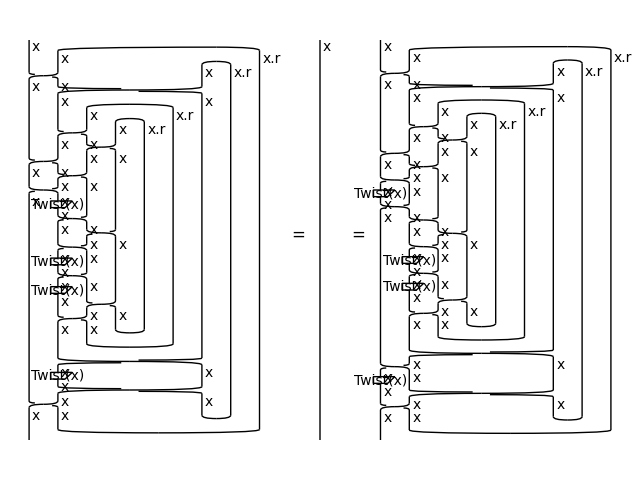
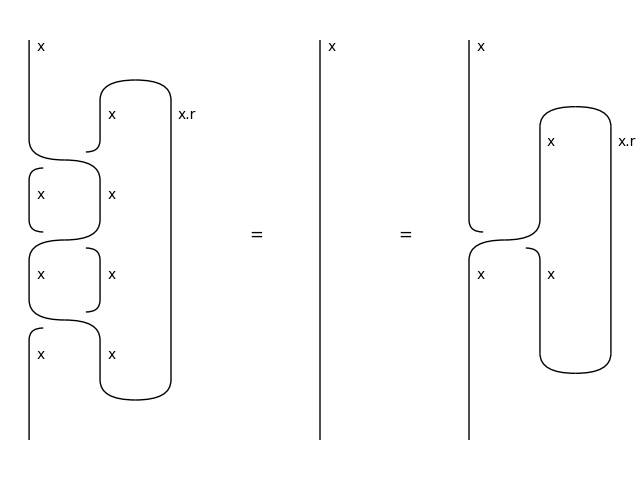
int-construction WIP

diff --git a/discopy/int.py b/discopy/int.py
@@ -13,20 +13,50 @@ Summary
 
     Ty
     Diagram
+
+.. admonition:: Functions
+
+    .. autosummary::
+        :template: function.rst
+        :nosignatures:
+        :toctree:
+
+        NamedGeneric
+
+Example
+-------
+
+>>> from discopy.grammar import pregroup
+>>> from discopy.grammar.pregroup import Word, Cup
+>>> s, n = map(pregroup.Ty, "sn")
+>>> Alice, loves, Bob\\
+...     = Word('Alice', n), Word('loves', n.r @ s @ n.l), Word('Bob', n)
+>>> sentence = Alice @ loves @ Bob >> Cup(n, n.r) @ s @ Cup(n.l, n)
+
+>>> from discopy.rigid import Functor
+>>> from discopy.ribbon import Ty as T, Diagram as D, Box, Category
+>>> N = T('N')
+>>> F = Functor(
+...     ob={s: Ty(), n: Ty(N, N)},
+    ...     ar={Alice: Box('A', N, N),
+...         loves: Box('L', N @ N, N @ N),
+...         Bob: Box('B', N, N)},
+...     cod=Int(Category(T, D)))
+>>> F(sentence).draw()
 """
 
 from __future__ import annotations
 from dataclasses import dataclass
 
-from discopy import traced, rigid, pivotal, ribbon
+from discopy import balanced, traced, rigid, pivotal, ribbon
 from discopy.cat import Composable, assert_iscomposable
-from discopy.monoidal import Whiskerable
+from discopy.monoidal import Whiskerable, Category
 from discopy.rigid import assert_isadjoint
 from discopy.utils import NamedGeneric, mmap, assert_isinstance
 
 
 @dataclass
-class Ty(NamedGeneric('natural')):
+class Ty(NamedGeneric['natural']):
     """
     An integer type is a pair of ``natural`` types,
     by default :class:`ribbon.Ty`.
@@ -67,7 +97,7 @@ class Ty(NamedGeneric('natural')):
         negative = sum([x.negative for x in reversed((self, ) + others)], unit)
         return type(self)(positive, negative)
 
-    __matmul__ = tensor
+    __matmul__ = __add__ = tensor
 
     def __neg__(self):
         positive, negative = self
@@ -77,7 +107,7 @@ class Ty(NamedGeneric('natural')):
 
 
 @dataclass
-class Diagram(Composable[Ty], Whiskerable, NamedGeneric('natural')):
+class Diagram(Composable[Ty], Whiskerable, NamedGeneric['natural']):
     """
     An integer diagram from ``x`` to ``y`` is a ``natural`` diagram
     from ``x.positive @ y.negative`` to ``x.negative @ y.positive``.
@@ -89,9 +119,9 @@ class Diagram(Composable[Ty], Whiskerable, NamedGeneric('natural')):
 
     Note
     ----
-    We take ``natural = ribbon.Diagram`` but this can be any class with the
-    methods for a balanced traced category. For example, the category of
-    boolean matrices with the direct sum has a trace given by reflexive
+    By default we take ``natural = ribbon.Diagram`` but this can be any class
+    with the methods for a balanced traced category. For example, the category
+    of boolean matrices with the direct sum has a trace given by reflexive
     transitive closure. We can use it to check the snake equations:
 
     >>> from discopy.matrix import Matrix
@@ -117,7 +147,13 @@ class Diagram(Composable[Ty], Whiskerable, NamedGeneric('natural')):
     @mmap
     def then(self, other: Diagram):
         """
-        The composition of two integer diagrams is given by:
+        The composition of two integer diagrams.
+
+        Parameters:
+            other : The other diagram with which to compose.
+
+        Example
+        -------
 
         >>> from discopy.ribbon import Ty as T, Diagram as D, Box as B
         >>> u, v, w, x, y, z = map(Ty[T], "uvwxyz")
@@ -139,14 +175,20 @@ class Diagram(Composable[Ty], Whiskerable, NamedGeneric('natural')):
             >> self.inside @ w
             >> y @ braid(w, u).dagger()
             >> other.inside @ u
-            >> z @ braid(v, u)).trace(v if isinstance(v, int) else len(v))
+            >> z @ braid(v, u)).trace(
+                n=v if isinstance(v, int) else len(v), left=False)
         return type(self)(inside, dom, cod)
 
     @classmethod
-    def id(cls, dom: Ty) -> Diagram:
+    def id(cls, dom: Ty = None) -> Diagram:
         """
-        The identity on an integer type is the identity on its positive half
-        tensored with a twist on its negative half. For example:
+        The identity on an integer type.
+
+        Parameters:
+            dom : The integer type on which to take the identity.
+
+        Example
+        -------
 
         >>> from discopy.ribbon import Ty as T, Diagram as D, Box as B
         >>> x, y, u, v = map(Ty[T], "xyuv")
@@ -161,6 +203,7 @@ class Diagram(Composable[Ty], Whiskerable, NamedGeneric('natural')):
         .. image:: /_static/int/idr.png
             :align: center
         """
+        dom = Ty[cls.natural.ty_factory]() if dom is None else dom
         positive, negative = dom
         inside = cls.natural.id(positive) @ cls.natural.twist(negative)
         return cls(inside, dom, dom)
@@ -168,7 +211,13 @@ class Diagram(Composable[Ty], Whiskerable, NamedGeneric('natural')):
     @mmap
     def tensor(self, other):
         """
-        The tensor of two integer diagrams is given by:
+        The tensor of two integer diagrams.
+
+        Parameters:
+            other : The other diagram to tensor.
+
+        Example
+        -------
 
         >>> from discopy.ribbon import Ty as T, Diagram as D, Box as B
         >>> x, y, u, v = map(Ty[T], "xyuv")
@@ -197,13 +246,21 @@ class Diagram(Composable[Ty], Whiskerable, NamedGeneric('natural')):
         """
         The integer cups are given by natural identities.
 
+        Parameters:
+            left : The left-hand side of the cups.
+            right : The right-hand side of the cups.
+
+        Example
+        -------
+
         This is what the snake equations look like:
 
         >>> from discopy.drawing import Equation
+        >>> x = Ty('x')
         >>> Equation(
-        ...     Diagram.id(Ty('x')).transpose(),
-        ...     Diagram.id(Ty('x')),
-        ...     Diagram.id(Ty('x')).transpose(left=True)).draw(
+        ...     Diagram.caps(x, -x) @ x >> x @ Diagram.cups(-x, x),
+        ...     Diagram.id(x),
+        ...     x @ Diagram.caps(-x, x) >> Diagram.cups(x, -x) @ x).draw(
         ...         path="docs/_static/int/int-snake-equations.png")
 
         .. image:: /_static/int/int-snake-equations.png
@@ -217,12 +274,19 @@ class Diagram(Composable[Ty], Whiskerable, NamedGeneric('natural')):
     def caps(cls, left: Ty, right: Ty) -> Diagram:
         """
         The integer caps are given by natural identities.
+
+        Parameters:
+            left : The left-hand side of the caps.
+            right : The right-hand side of the caps.
         """
         assert_isadjoint(left, right)
         inside = cls.natural.id(left.negative + left.positive)
         return cls(inside, type(left)(), left @ right)
 
     def dagger(self):
+        """
+        The dagger of an integer diagram is given by the dagger of its inside.
+        """
         return type(self)(self.inside.dagger(), self.cod, self.dom)
 
     def __getitem__(self, key):
@@ -239,3 +303,13 @@ class Diagram(Composable[Ty], Whiskerable, NamedGeneric('natural')):
     transpose = rigid.Diagram.transpose
     boxes = property(lambda self: self.inside.boxes)
     to_drawing = lambda self: self.inside.to_drawing()
+
+
+def Int(category: Category) -> Category:
+    """
+    The Int construction turns traced categories into ribbon categories.
+    """
+    return Category(Ty[category.ob], Diagram[category.ar])
+
+
+Id = Diagram.id

diff --git a/discopy/utils.py b/discopy/utils.py
@@ -90,27 +90,56 @@ class MappingOrCallable(Mapping[KT, VT]):
         return MappingOrCallable(lambda key: other[self[key]])
 
 
-def NamedGeneric(attr):
-    T = TypeVar('T')
+class NamedGeneric(Generic[TypeVar('T')]):
+    """
+    A ``NamedGeneric`` is a ``Generic`` where the type parameter has a name.
 
-    class Result(Generic[T]):
-        def __class_getitem__(cls, dtype: type, _cache=dict()):
-            cls_attr = getattr(cls, attr, None)
-            if cls_attr not in _cache or _cache[cls_attr] != cls:
-                _cache.clear()
-                _cache[cls_attr] = cls
-            if dtype not in _cache:
-                origin = getattr(cls, "__origin__", cls)
-                class C(origin):
-                    pass
+    Parameters:
+        attr : The name of the type parameter.
 
-                C.__name__ = C.__qualname__ = \
-                    f"{origin.__name__}[{dtype.__name__}]"
-                C.__origin__ = cls
-                setattr(C, attr, dtype)
-                _cache[dtype] = C
-            return _cache[dtype]
-    return Result
+    Note
+    ----
+    In a standard ``Generic`` class, the type parameter disappears when the
+    member of the class is instantiated, e.g.
+
+    >>> assert list[int]([1, 2, 3])\\
+    ...     == list[float]([1, 2, 3])\\
+    ...     == [1, 2, 3]
+
+    In a ``NamedGeneric``, the type parameter is attached to the members of the
+    class so that we have access to it.
+
+    Example
+    -------
+
+    >>> from dataclasses import dataclass
+    >>> @dataclass
+    ... class L(NamedGeneric["type_param"]):
+    ...     inside: list
+    >>> assert L[int]([1, 2, 3]).type_param == int
+    >>> assert L[int]([1, 2, 3]) != L[float]([1, 2, 3])
+    """
+    def __class_getitem__(self, attr):
+        class Result(Generic[TypeVar(attr)]):
+            def __class_getitem__(cls, dtype: type, _cache=dict()):
+                cls_attr = getattr(cls, attr, None)
+                if cls_attr not in _cache or _cache[cls_attr] != cls:
+                    _cache.clear()
+                    _cache[cls_attr] = cls
+                if dtype not in _cache:
+                    origin = getattr(cls, "__origin__", cls)
+
+                    class C(origin):
+                        pass
+                    C.__name__ = C.__qualname__ = \
+                        f"{origin.__name__}[{dtype.__name__}]"
+                    C.__origin__ = cls
+                    setattr(C, attr, dtype)
+                    _cache[dtype] = C
+                return _cache[dtype]
+
+            __name__ = __qualname__ = f"NamedGeneric['{attr}']"
+        return Result
 
 
 def product(xs: list, unit=1):

diff --git a/discopy/ribbon.py b/discopy/ribbon.py
@@ -81,6 +81,8 @@ class Diagram(pivotal.Diagram, balanced.Diagram):
         Parameters:
             n : The number of wires to trace.
         """
+        if not n:
+            return self
         if left:
             return self.caps(self.dom[:n].r, self.dom[:n]) @ self.dom[n:]\
                 >> self.dom[:n].r @ self\

diff --git a/discopy/matrix.py b/discopy/matrix.py
@@ -50,7 +50,7 @@ from discopy.utils import assert_isinstance, mmap, NamedGeneric
 
 
 @factory
-class Matrix(Composable[int], Whiskerable, NamedGeneric('dtype')):
+class Matrix(Composable[int], Whiskerable, NamedGeneric['dtype']):
     """
     A matrix is an ``array`` with natural numbers as ``dom`` and ``cod``.
 
